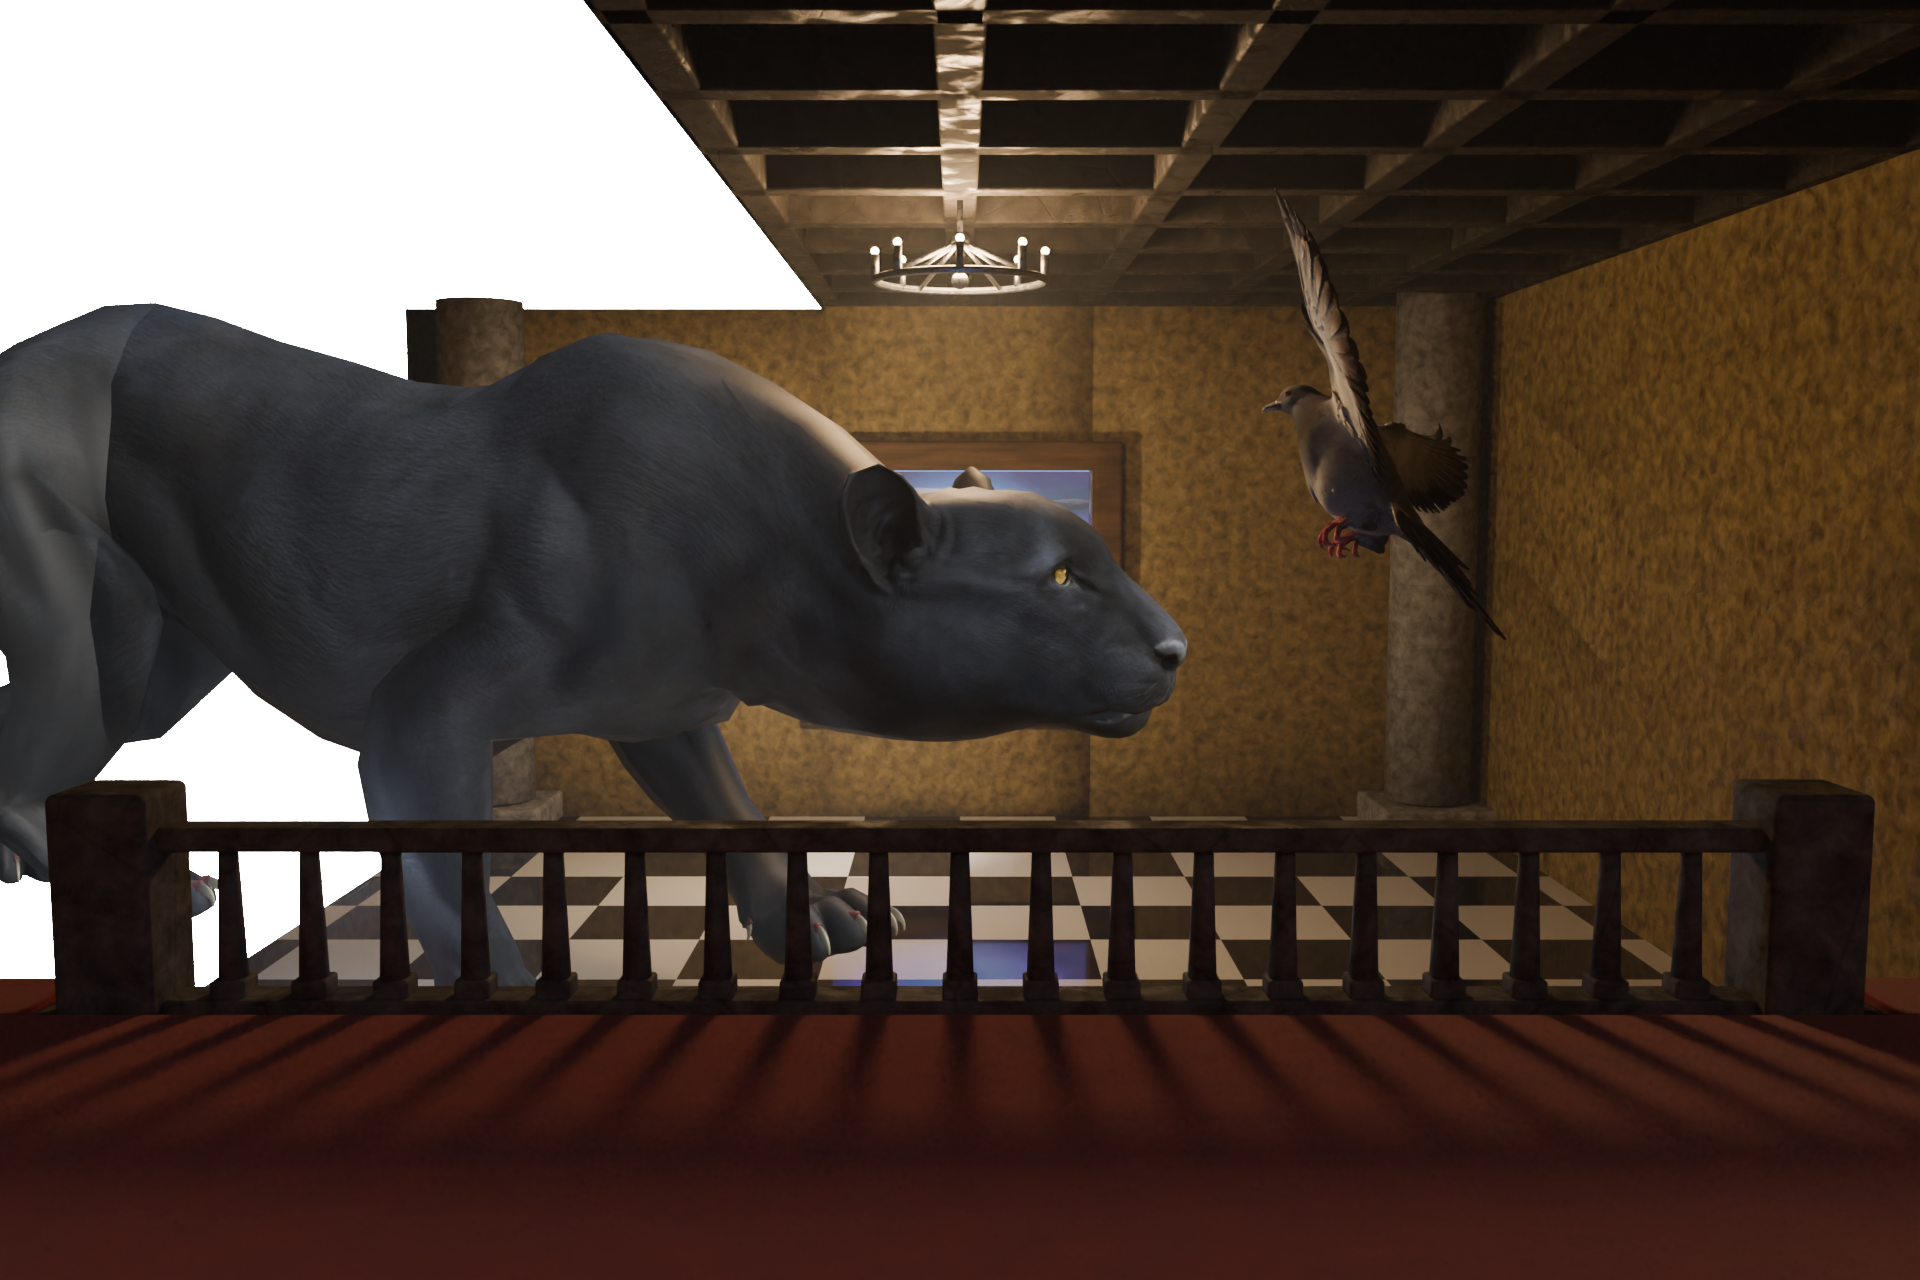
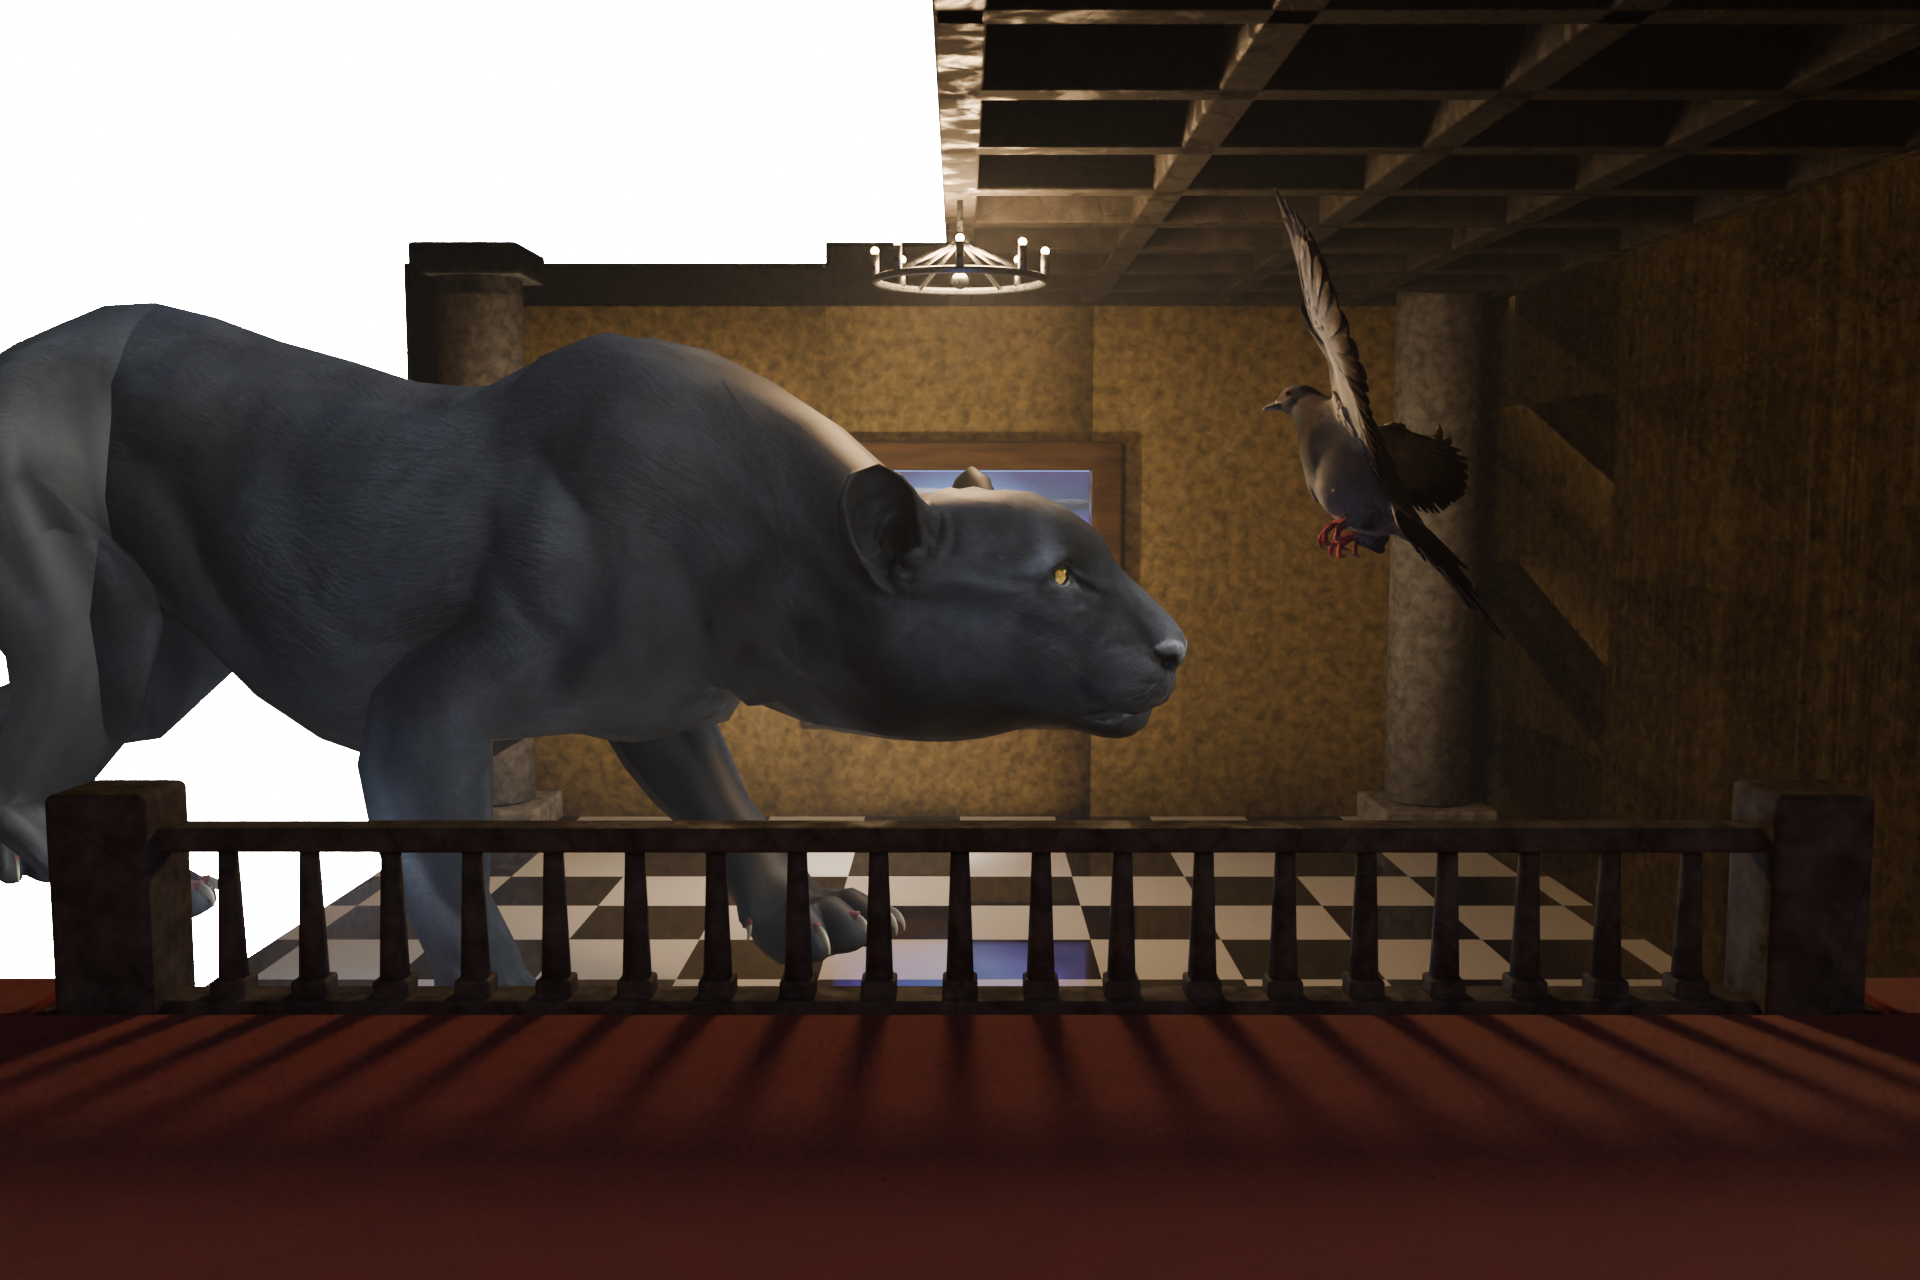
Saw the roof through instead of hanging a sheet under it
The white lid was the wrong instrument and the measurements say so. A
horizontal panel does not cut anything: what you see is not its edge but the
line where your own sight line stops crossing it, so the boundary moves with
the lens and reads as a soft wash. Its edge at x -2.71 belongs at picture x
1242; the boundary it actually drew sat at 720. Half the roof it appeared to
take away, it had not.

So the roof pieces are cut themselves, on the plane x -0.21, and the far
halves are built and then `unseen` -- still stopping light, still bouncing
into the room, just not drawn. Same trick as the wall, so the lighting does
not move at all. -0.21 is the near face of the beam standing at 0, which
survives as the edge member and shows its cut side; a ceiling that stops in
open air between beams looks like a mistake, one that stops at a beam looks
sawn. It also leaves the roof above the chandelier's own pole, so the thing
still hangs from something.

Siting it needed the sight lines rather than a projection. Rays through the
top of this frame meet the beam soffit about seventeen metres off, so a cut
at -5.21 draws its edge at picture x 443 and one at -2.71 at 732 -- both far
left of the chandelier at 1020. -0.21 lands at 1021. Predicted 443 for the
-5.21 pass and the render measured 440, which is how the maths was trusted.

A hole in a roof is a hole upward, and a vertical white panel cannot catch
what goes straight up through it: 3.8% of the balcony frame was escaping to
[…]

Changed region(s): [[0.75, 0.125, 1.0, 0.7812], [0.1875, 0.0, 0.5, 0.25]]

diff --git a/art/blender/scenes.py b/art/blender/scenes.py
@@ -2417,40 +2417,87 @@ def painted_hall(path, mood="noon", view="balcony", cutaway=False):
         # the picture that gets this far crosses at 75.4. So the panel ends
         # at 71, which is four metres clear on each side of a gap that is
         # nine metres wide and would not have been found by looking.
-        look.backdrop((-24.0, 32.5, 3.0), (34.0, 77.0),
+        look.backdrop((-24.0, 32.5, 16.0), (60.0, 77.0),
                       rotation=(0.0, math.radians(90.0), 0.0),
                       strength=320.0, name="WhiteVoid")
 
-        # And the roof over that corner goes too, which is the same idea
-        # turned on its side. A lid rather than a hole: a white panel slung
-        # under the beams at 10.03, just below their 10.07 soffit, so from
-        # any lens in the room it covers the coffers instead of them.
+        # And a ceiling on the whole arrangement, because a hole in a roof
+        # is a hole upward and a vertical panel cannot catch what goes
+        # straight up through it. Swept, 3.8% of the balcony frame was
+        # escaping to open sky at up to 13 degrees of elevation -- rays that
+        # leave through the sawn roof and travel far enough in y to pass the
+        # end of the white panel before they reach it.
         #
-        # A lid and not another `unseen` because taking the roof out would
-        # not give white -- ray-swept with it gone, the sight lines carry on
-        # up past the top of the wall and out into the sky, and the sky is
-        # not what the shirt wants. It has to be replaced, not removed.
-        #
-        # It stops at x -2.71, which is the near face of the beam standing at
-        # -2.5. Ending a ceiling in mid-air draws a line across nothing;
-        # ending it against a beam reads as the corner of the building being
-        # cut away, which is what the whole variant is. Measured, the beams
-        # in the marked band run from x -9.8 to -4.1, so that edge clears
-        # them all and takes the roof out to about two thirds across frame.
-        look.backdrop((-7.855, 9.0, 10.03), (10.29, 32.4),
-                      strength=320.0, name="WhiteRoof")
+        # At z 20, above the roof, so from anywhere in the room with a roof
+        # over it this is hidden by the roof. And bounded at y 95, which the
+        # picture's own sight lines cannot reach: they leave at about a
+        # degree above horizontal, so they need nine hundred metres to climb
+        # this high and the panel has stopped long before.
+        look.backdrop((-29.5, 30.0, 20.0), (61.0, 130.0),
+                      strength=320.0, name="WhiteAbove")
+
+        # Nothing hangs under the beams any more -- the roof is cut above,
+        # and what the cut opens onto is this same white field, which is why
+        # it had to grow. Sight lines out through a missing roof leave at up
+        # to 13 degrees above horizontal and cross this plane 33 m away, so
+        # a panel that stopped at z 20 would have let the steepest of them
+        # off the top and into the sky.
 
     # A coffered roof: beams both ways with dark panels behind them, which is
     # the one part of the room the light never reaches and so has to be shape
     # rather than colour.
-    look.block((0, DEEP / 2 - 3.0, CEILING + 0.55), (HALL * 2, DEEP + 8.0, 0.7),
-               beam, name="CeilingPanel")
+    #
+    # In the cutaway it is sawn through on a plane rather than hidden behind
+    # one. The first attempt slung a white panel under the beams, and a
+    # horizontal panel does not cut anything: what you see is not its edge but
+    # the line where your own sight line stops crossing it, which moves with
+    # the lens and reads as a soft diagonal wash. Projected, the lid's own
+    # edge at x -2.71 belongs at picture x 1242 and the boundary it actually
+    # drew sat at 720. Half the roof it appeared to remove, it did not.
+    #
+    # So the pieces themselves are cut at x -0.21 -- the near face of the
+    # beam standing at 0, which therefore survives as the last member and
+    # shows its cut side, the way a sawn joist does. Anything wholly beyond
+    # the cut is built and then `unseen`: still stopping light, still
+    # bouncing into the room, just not drawn. Same trick as the wall, so the
+    # lighting does not move at all.
+    #
+    # -0.21 rather than anything further out because of where a cut *lands*,
+    # which is not where it is. Sight lines through the top of this frame
+    # reach the beam soffit about seventeen metres off, so a cut at -5.21
+    # draws its edge at picture x 443 and one at -2.71 at 732 -- both far
+    # left of the chandelier at 1020. -0.21 puts it at 1021, right against
+    # the chandelier, and leaves the roof above the chandelier's own pole
+    # standing so the thing still hangs from something.
+    #
+    # The other reason for that beam: the panel and the cross members are cut
+    # in the same plane, so the last x-beam ends up as the edge member with
+    # its side showing. A ceiling that stops in open air between beams looks
+    # like a mistake; one that stops at a beam looks sawn.
+    CUT = -0.21 if cutaway else None
+
+    def roof_piece(location, size, **kw):
+        """One piece of roof, sawn at `CUT`, the far half present but unseen."""
+        x0, x1 = location[0] - size[0] / 2, location[0] + size[0] / 2
+        if CUT is None or x0 >= CUT - 1e-6:
+            return look.block(location, size, beam, **kw)
+        if x1 <= CUT + 1e-6:
+            return look.unseen(look.block(location, size, beam, **kw))
+        for lo, hi, gone in ((x0, CUT, True), (CUT, x1, False)):
+            piece = look.block(((lo + hi) / 2, location[1], location[2]),
+                               (hi - lo, size[1], size[2]), beam, **kw)
+            if gone:
+                look.unseen(piece)
+        return None
+
+    roof_piece((0, DEEP / 2 - 3.0, CEILING + 0.55),
+               (HALL * 2, DEEP + 8.0, 0.7), name="CeilingPanel")
     for index in range(-4, 5):
-        look.block((index * 2.5, DEEP / 2 - 3.0, CEILING - 0.02),
-                   (0.42, DEEP + 8.0, 0.62), beam, bevel=0.04, name="Beam")
+        roof_piece((index * 2.5, DEEP / 2 - 3.0, CEILING - 0.02),
+                   (0.42, DEEP + 8.0, 0.62), bevel=0.04, name="Beam")
     for step in range(-4, 12):
-        look.block((0, step * 2.4, CEILING - 0.02),
-                   (HALL * 2, 0.42, 0.62), beam, bevel=0.04, name="Beam")
+        roof_piece((0, step * 2.4, CEILING - 0.02),
+                   (HALL * 2, 0.42, 0.62), bevel=0.04, name="Beam")
 
     # --- the balcony the camera stands on --------------------------------
     # Out to y=1.55, which is past the rail rather than short of it. The
